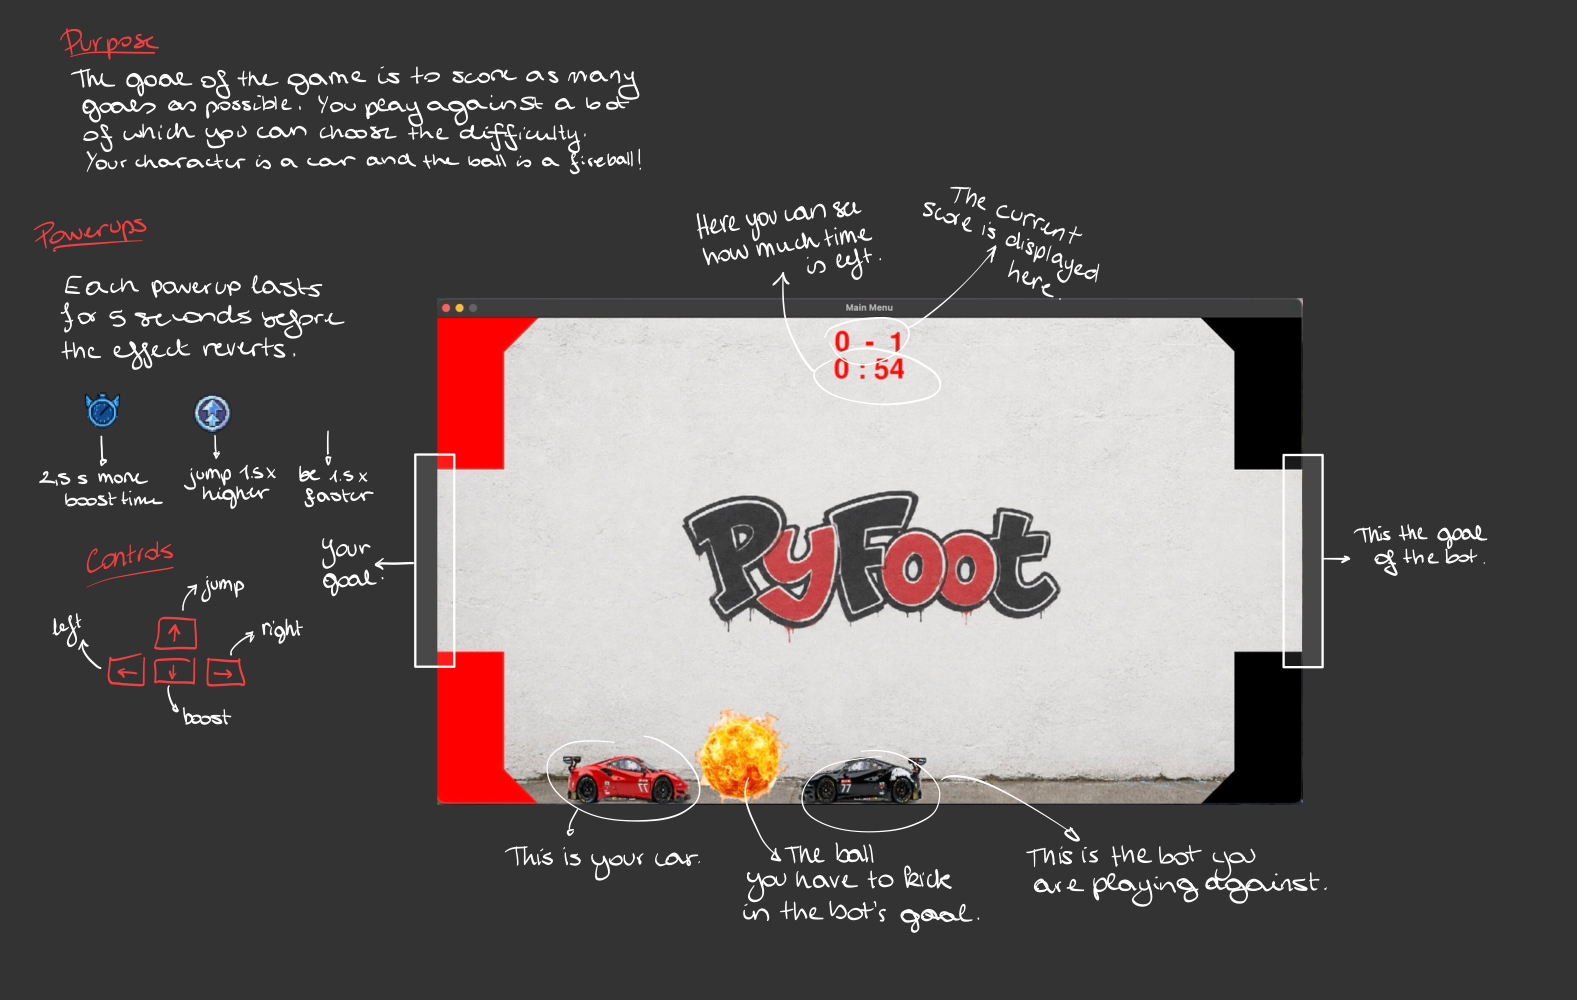
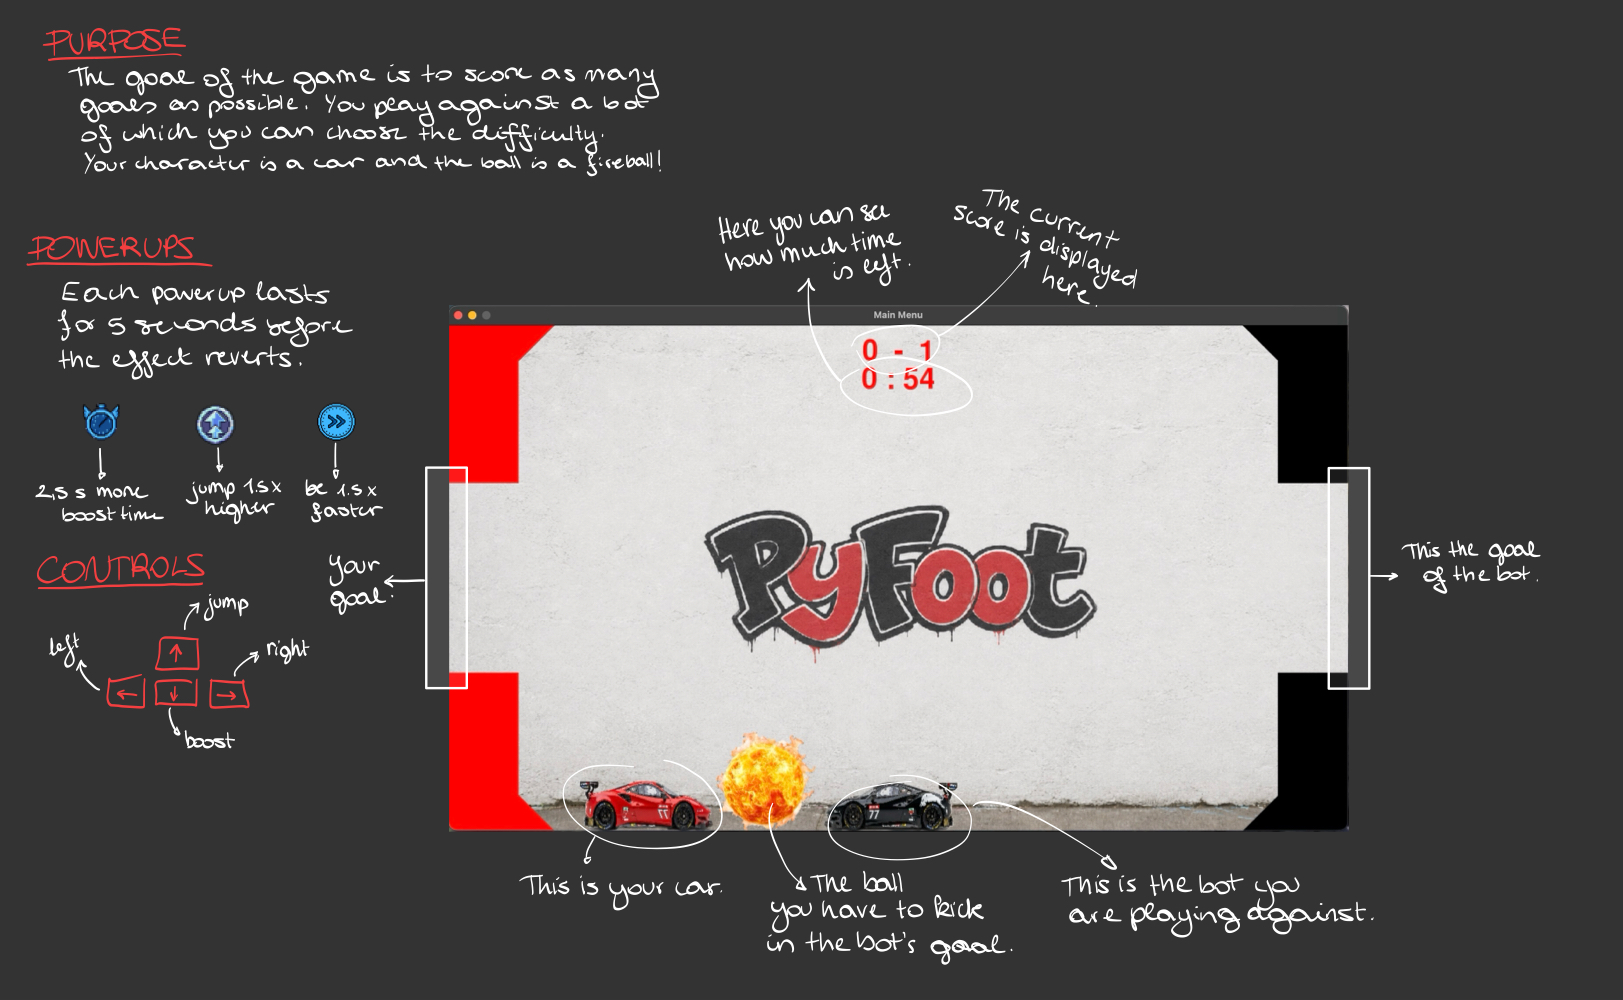
Bot difficulty rebalance + bug fixes
Bot AI (base_classes.py, constants.py)

DELAY_EASYBOT raised from 10ms to 600ms — EasyBot now has a real reaction lag
EasyBot jump restricted to when ball is horizontally within the bot's width — stops phantom aerial jumps
MediumBot: new MediumAttack with instant reaction + offensive boost when ball is on player's side; new MediumDefend positions between ball and goal instead of retreating to wall
HardBot: replaced broken velocity-over-distance prediction with a clean 0.2s lookahead intercept; offensive boost; speed scales 1×→2× over match duration
Added level.bounce_triangle(triangles) — bot now collides with corner triangles
Powerup fixes (powerups.py, PyFoot.py)

Stacking bug fixed: base stat value only saved on first collection, multiplier always applied from the real base
Expiry resets *_collected timestamp back to 0 so the next collection correctly saves the base again
Goal handling (PyFoot.py, ball_class.py)

Player and bot positions reset to starting positions after every goal
Active powerups cleared on goal
Game freezes for 2 seconds showing "GOAL!" — physics no longer run during the animation
3-2-1-GO countdown before kick-off; match timer starts after countdown ends
Code quality (PyFoot.py)

Difficulty if/if/if → if/elif/elif
Font created once before game loop instead of every frame
Window caption changed from "Main Menu" to "PyFoot"
Stale goal_timer docstring removed from Ball

diff --git a/PyFoot.py b/PyFoot.py
@@ -13,7 +13,7 @@ Running this file will let you play our game,
 Have fun!
 """
 
-pygame.display.set_caption("Main Menu")
+pygame.display.set_caption("PyFoot")
 clock = pygame.time.Clock()
 window = pygame.display.set_mode((SCREEN_WIDTH, SCREEN_HEIGHT))
 field = Field()
@@ -51,31 +51,55 @@ def run_game(difficulty):
     # Player and ball creation
     player = Player(Vector2(BW + TH, SCREEN_HEIGHT), Vector2(0,0), 70, 210)
     player_score = 0
-    ball = Ball(Vector2(SCREEN_WIDTH/2, SCREEN_HEIGHT/2), Vector2(0,0), 70)
+    ball = Ball(Vector2(SCREEN_WIDTH/2 - 70, SCREEN_HEIGHT/2 - 70), Vector2(0,0), 70)
     
     starting_time = pygame.time.get_ticks()
     active_powerups = []
-    last_powerup_time = starting_time
 
     # Bot creation
     if difficulty == "Easy":
-            level = EasyBot(Vector2(SCREEN_WIDTH - BW - TH - 100, SCREEN_HEIGHT), Vector2(0,0), 70, 210, player, ball)
-    if difficulty == "Medium":
-            level = MediumBot(Vector2(SCREEN_WIDTH - BW - TH - 100 , SCREEN_HEIGHT), Vector2(0,0),70, 210, player, ball)
-    if difficulty == "Hard":
-            level = HardBot(Vector2(SCREEN_WIDTH - BW - TH - 100, SCREEN_HEIGHT), Vector2(0,0), 70, 210, player, ball, starting_time)
+        level = EasyBot(Vector2(SCREEN_WIDTH - BW - TH - 100, SCREEN_HEIGHT), Vector2(0,0), 70, 210, player, ball)
+    elif difficulty == "Medium":
+        level = MediumBot(Vector2(SCREEN_WIDTH - BW - TH - 100, SCREEN_HEIGHT), Vector2(0,0), 70, 210, player, ball)
+    elif difficulty == "Hard":
+        level = HardBot(Vector2(SCREEN_WIDTH - BW - TH - 100, SCREEN_HEIGHT), Vector2(0,0), 70, 210, player, ball, starting_time)
     bot_score = 0
 
-    # Game loop       
+    font = pygame.font.SysFont(None, 60)
+    font_big = pygame.font.SysFont(None, 200)
+
+    def show_overlay(text, duration_ms):
+        """Freezes the scene and displays centered text for duration_ms milliseconds."""
+        start = pygame.time.get_ticks()
+        while pygame.time.get_ticks() - start < duration_ms:
+            clock.tick(60)
+            window.blit(background, (0, 0))
+            draw_boundaries(window)
+            level.draw(window)
+            ball.draw(window)
+            player.draw(window)
+            surf = font_big.render(text, True, (255, 0, 0))
+            window.blit(surf, surf.get_rect(center=(SCREEN_WIDTH / 2, SCREEN_HEIGHT / 2)))
+            for event in pygame.event.get():
+                if event.type == pygame.QUIT:
+                    pygame.quit()
+            pygame.display.flip()
+
+    for count in ["3", "2", "1", "GO!"]:
+        show_overlay(count, 1000)
+
+    starting_time = pygame.time.get_ticks()
+    last_powerup_time = starting_time
+
+    # Game loop
     run = True
     while run:
         if (pygame.time.get_ticks()- starting_time) < GAME_DURATION:
             dt = clock.tick(60) / 1000  # dt is roughly 0.016 at 60fps
-            
+
             window.blit(background, (0, 0))
 
             # Score display
-            font = pygame.font.SysFont(None, 60)
             score_text = font.render(f"{player_score}  -  {bot_score}", True, (255, 0, 0))
             rect = score_text.get_rect(center=(SCREEN_WIDTH / 2, 40))
             window.blit(score_text, rect)
@@ -90,11 +114,11 @@ def run_game(difficulty):
             level.draw(window)
             level.update(dt, field)
             level._handle_action(dt, field, starting_time, active_powerups)
+            level.bounce_triangle(triangles)
             
             # Ball rendering
             ball.draw(window)
             ball.update(dt, field, player, level, triangles)
-            ball.draw_goal_inscription(window, dt)
 
             # Player rendering
             player.draw(window)    
@@ -131,25 +155,38 @@ def run_game(difficulty):
             # Checks if the powerup has been used for too long and reverts to the original value PLAYER
             if player.faster_collected != 0 and pygame.time.get_ticks() - player.faster_collected > POWERUP_EFFECT_DURATION:
                 player.max_speed = player.speed_base
+                player.faster_collected = 0
             if player.highjump_collected != 0 and pygame.time.get_ticks() - player.highjump_collected > POWERUP_EFFECT_DURATION:
                 player.jump_force = player.jump_base
+                player.highjump_collected = 0
             if player.longerboost_collected != 0 and pygame.time.get_ticks() - player.longerboost_collected > POWERUP_EFFECT_DURATION:
                 player.boost_time = player.boost_base
+                player.longerboost_collected = 0
 
             # Checks if the powerup has been used for too long and reverts to the original value LEVEL
             if level.faster_collected != 0 and pygame.time.get_ticks() - level.faster_collected > POWERUP_EFFECT_DURATION:
                 level.max_speed = level.speed_base
+                level.faster_collected = 0
             if level.highjump_collected != 0 and pygame.time.get_ticks() - level.highjump_collected > POWERUP_EFFECT_DURATION:
                 level.jump_force = level.jump_base
+                level.highjump_collected = 0
             if level.longerboost_collected != 0 and pygame.time.get_ticks() - level.longerboost_collected > POWERUP_EFFECT_DURATION:
                 level.boost_time = level.boost_base
+                level.longerboost_collected = 0
                  
-            # Keeps the score of each character
+            # Keeps the score of each character and resets the position
             who_scored = ball.goal(field)
-            if who_scored == "player":
-                 player_score += 1
-            if who_scored == "bot":
-                 bot_score += 1
+            if who_scored:
+                if who_scored == "player":
+                    player_score += 1
+                else:
+                    bot_score += 1
+                player.pos = Vector2(BW + TH, SCREEN_HEIGHT)
+                player.velocity = Vector2(0, 0)
+                level.pos = Vector2(SCREEN_WIDTH - BW - TH - 100, SCREEN_HEIGHT)
+                level.velocity = Vector2(0, 0)
+                active_powerups.clear()
+                show_overlay("GOAL!", 2000)
 
             pygame.display.flip()
         else:

diff --git a/base_classes.py b/base_classes.py
@@ -550,12 +550,9 @@ class Attack(State):
             elif self.bot.pos.x > self.bot.ball.pos.x:
                 self.bot.current_action = "left"
 
-            if self.bot.ball.get_bottom() < self.bot.get_top():
+            if (self.bot.ball.get_bottom() < self.bot.get_top() and
+                    abs(self.bot.ball.pos.x - self.bot.pos.x) < self.bot.width):
                 self.bot.jump(field)
-
-        # Boost execution
-        if self.bot.ball.pos.x > SCREEN_WIDTH/2:
-            self.bot.boost()
 
         if self.bot.current_action == "right":
             self.bot.move_right(dt)
@@ -579,7 +576,7 @@ class Defend(State):
             self.bot.jump(field)
 
 class MediumAttack(Attack):
-    """Attack state with no reaction delay — acts every frame."""
+    """Attack state with no reaction delay and offensive boost."""
     def __init__(self, bot):
         super().__init__(bot)
 
@@ -587,13 +584,43 @@ class MediumAttack(Attack):
         """Always returns True, removing the EasyBot reaction delay."""
         return True
 
+    def run(self, dt, field, active_powerups=None):
+        if self.bot.pos.x < self.bot.ball.get_right():
+            self.bot.current_action = "right"
+        elif self.bot.pos.x > self.bot.ball.pos.x:
+            self.bot.current_action = "left"
+
+        if (self.bot.ball.get_bottom() < self.bot.get_top() and
+                abs(self.bot.ball.pos.x - self.bot.pos.x) < self.bot.width):
+            self.bot.jump(field)
+
+        if self.bot.ball.pos.x < SCREEN_WIDTH / 2:
+            self.bot.boost()
+
+        if self.bot.current_action == "right":
+            self.bot.move_right(dt)
+        elif self.bot.current_action == "left":
+            self.bot.move_left(dt)
+
 class MediumDefend(Defend):
-    """Defend state for MediumBot — same behavior as base Defend."""
+    """Defend state that positions between the ball and the bot's goal."""
     def __init__(self, bot):
         super().__init__(bot)
 
+    def run(self, dt, field, active_powerups=None):
+        goal_x = SCREEN_WIDTH - BW
+        target_x = (self.bot.ball.pos.x + goal_x) / 2
+
+        if self.bot.pos.x < target_x - 10:
+            self.bot.move_right(dt)
+        elif self.bot.pos.x > target_x + 10:
+            self.bot.move_left(dt)
+
+        if self.bot.ball.get_bottom() < self.bot.get_top():
+            self.bot.jump(field)
+
 class HardAttack(Attack):
-    """Attack state for HardBot — no reaction delay, same as MediumAttack."""
+    """Attack state for HardBot — intercepts the ball using a 0.2s lookahead."""
     def __init__(self, bot):
         super().__init__(bot)
 
@@ -602,25 +629,23 @@ class HardAttack(Attack):
         return True
 
     def run(self, dt, field, active_powerups=None):
-            distance = abs(self.bot.ball.pos.x - self.bot.pos.x)
-            t = distance / self.bot.max_speed if self.bot.max_speed > 0 else 0
-            predicted_x = self.bot.ball.get_right() + self.bot.ball.velocity.x * t
+        predicted_x = self.bot.ball.pos.x + self.bot.ball.velocity.x * 0.2
 
-            if self.bot.pos.x < predicted_x:
-                self.bot.current_action = "right"
-            else:
-                self.bot.current_action = "left"
+        if self.bot.pos.x < predicted_x:
+            self.bot.current_action = "right"
+        else:
+            self.bot.current_action = "left"
 
-            if self.bot.ball.get_bottom() < self.bot.get_top():
-                self.bot.jump(field)
+        if self.bot.ball.get_bottom() < self.bot.get_top():
+            self.bot.jump(field)
 
-            if self.bot.ball.pos.x > SCREEN_WIDTH / 2:
-                self.bot.boost()
+        if self.bot.ball.pos.x < SCREEN_WIDTH / 2:
+            self.bot.boost()
 
-            if self.bot.current_action == "right":
-                self.bot.move_right(dt)
-            elif self.bot.current_action == "left":
-                self.bot.move_left(dt)    
+        if self.bot.current_action == "right":
+            self.bot.move_right(dt)
+        elif self.bot.current_action == "left":
+            self.bot.move_left(dt)
 
 class HardDefend(Defend):
     """Defend state for HardBot — same behavior as base Defend."""

diff --git a/ball_class.py b/ball_class.py
@@ -16,14 +16,12 @@ class Ball(DynamicObject):
         radius (int): Radius of the ball in pixels.
         bounce_factor (float): Velocity multiplier applied after a bounce.
         friction (float): Deceleration rate when ball rolls on the ground.
-        goal_timer (int): Countdown in milliseconds for the GOAL inscription display.
     """
     def __init__(self,pos,velocity,radius,bounce_factor=BOUNCE_FACTOR):
         super().__init__(pos, velocity, radius*2, radius*2)
         self.radius = radius
         self.bounce_factor = bounce_factor
         self.friction = FRICTION_BALL
-        self.goal_timer = 0
         self.image = pygame.image.load("media/fireball-removebg-preview.png")
         self.image = pygame.transform.scale(self.image, (radius*2, radius*2))
     
@@ -199,37 +197,12 @@ class Ball(DynamicObject):
             self.pos.y = SCREEN_HEIGHT/2
             self.velocity.x = 0
             self.velocity.y = 0
-            self.goal_timer = 2000
             return "bot"
-            
+
         if self.pos.x + self.radius > SCREEN_WIDTH - BW:
-            self.pos.x = SCREEN_WIDTH/2 
+            self.pos.x = SCREEN_WIDTH/2
             self.pos.y = SCREEN_HEIGHT/2
             self.velocity.x = 0
             self.velocity.y = 0
-            self.goal_timer = 2000
             return "player"
             
-    def draw_goal_inscription(self, screen, dt):
-        """
-        Displays a GOAL inscription at the center of the screen for 2 seconds after a goal.
-
-        Args:
-            screen: The Pygame surface to draw on.
-            dt (float): Delta time in seconds since the last frame.
-        """
-        if self.goal_timer > 0:
-            self.goal_timer -= dt * 1000
-            font = pygame.font.SysFont(None, 120)
-            text = font.render("GOAL!", True, (255, 0, 0))
-            rect = text.get_rect(center=(SCREEN_WIDTH / 2, SCREEN_HEIGHT / 2))
-            screen.blit(text, rect)
-                    
-        
-
-                
-        
-    
-       
-        
-        

diff --git a/powerups.py b/powerups.py
@@ -64,8 +64,9 @@ class FasterPowerUp(PowerUps):
 
     def apply(self, character):
         """Increases the character's max_speed by a 1.5x multiplier."""
-        character.speed_base = character.max_speed
-        character.max_speed *= 1.5
+        if character.faster_collected == 0:
+            character.speed_base = character.max_speed
+        character.max_speed = character.speed_base * 1.5
         character.faster_collected = pygame.time.get_ticks()
 
     def draw(self, screen):
@@ -76,13 +77,14 @@ class HighJumpPowerUp(PowerUps):
     """A verticality collectible that enhances jumping capability."""
     def __init__(self, pos, height, width):
         super().__init__(pos, height, width)
-        self.image = pygame.image.load("media/speed_powerup.png")
+        self.image = pygame.image.load("media/jumppowerup.png")
         self.image = pygame.transform.scale(self.image, (POWERUP_HEIGHT*2, POWERUP_HEIGHT*2))
 
     def apply(self, character):
         """Increases the character's jump_force by a 1.5x multiplier."""
-        character.jump_base = character.jump_force
-        character.jump_force *= 1.5
+        if character.highjump_collected == 0:
+            character.jump_base = character.jump_force
+        character.jump_force = character.jump_base * 1.5
         character.highjump_collected = pygame.time.get_ticks()
 
     def draw(self, screen):
@@ -98,8 +100,9 @@ class LongerBoostPowerUp(PowerUps):
 
     def apply(self, character):
         """Increases the character's boost_time duration by a 1.5x multiplier."""
-        character.boost_base = character.boost_time
-        character.boost_time *= 1.5
+        if character.longerboost_collected == 0:
+            character.boost_base = character.boost_time
+        character.boost_time = character.boost_base * 1.5
         character.longerboost_collected = pygame.time.get_ticks()
 
     def draw(self, screen):

diff --git a/PyFoot_UI.py b/PyFoot_UI.py
@@ -133,7 +133,7 @@ def show_tutorial():
     manager = pygame_gui.UIManager((SCREEN_WIDTH, SCREEN_HEIGHT), "UI_theme.json")
 
     # Menu button
-    menu_button_rect = pygame.Rect((SCREEN_WIDTH - BUTTON_WIDTH) - BUTTON_HEIGHT/2, 1.5*BUTTON_HEIGHT, BUTTON_WIDTH, BUTTON_HEIGHT)
+    menu_button_rect = pygame.Rect((SCREEN_WIDTH - BUTTON_WIDTH) - BUTTON_HEIGHT/2, 1.5*BUTTON_HEIGHT, BUTTON_HEIGHT, BUTTON_HEIGHT)
     menu_button = pygame_gui.elements.UIButton(menu_button_rect, "MAIN MENU", manager)
 
     # Turorial image

diff --git a/constants.py b/constants.py
@@ -21,7 +21,7 @@ FRICTION_BALL = 0.98
 ACCELERATION = 3000
 PLAYER1_CONTROLS = {"left": pygame.K_LEFT, "right": pygame.K_RIGHT, "jump": pygame.K_UP, "boost": pygame.K_DOWN}
 PLAYER2_CONTROLS = {"left": pygame.K_a, "right": pygame.K_d, "jump": pygame.K_s, "boost": pygame.K_w}
-DELAY_EASYBOT = 10
+DELAY_EASYBOT = 600
 BOUNCE_FACTOR = 0.7
 GAME_DURATION = 60000
 OFFSET = 10
